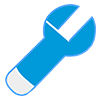
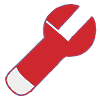
redisain home page

Changed region(s): [[0.03, 0.03, 0.99, 0.96]]

diff --git a/TeploBosh/css/style.css b/TeploBosh/css/style.css
@@ -3,17 +3,18 @@ body{font-size:16px;}
 img{vertical-align:middle;border:0;}
 header{}
 .logo-header{padding-top:1em;padding-bottom:1em;}
-.logo-header span{font-family:'Play',"Helvetica Neue",Helvetica,Arial,sans-serif;font-size:2.8em;color:#0099da;font-weight:900;text-shadow:2px 2px 4px rgba(0, 0, 0, 0.4), 0px 0px 6px rgba(0, 153, 218, 0.2);}
-.logo-img{position:relative;left:50%;width:100px;height:62px;background-image:url(../img/Logo_kond.png);background-repeat:no-repeat;-webkit-background-size:cover;background-size:cover;}
+.logo-header span{font-family:'Play',"Helvetica Neue",Helvetica,Arial,sans-serif;font-size:2.8em;color:#FFC01B;font-weight:900;text-shadow:2px 2px 4px rgba(0, 0, 0, 0.4), 0px 0px 6px rgba(0, 153, 218, 0.2);}
+.logo-header .redforbosh{color:#b22b31;}
+.logo-img{position:relative;left:44%;width:100px;height:62px;background-image:url(../img/Logo_kond.png);background-repeat:no-repeat;-webkit-background-size:cover;background-size:cover;}
 .logo-img img{position:absolute;top:15%;right:8%;}
 .menu-header,
 .menu-header ul{margin:0;}
 .menu-header ul li{float:left;list-style-type:none;padding-top:12px;}
 .menu-header ul li a{font-family:'Exo 2',"Helvetica Neue",Helvetica,Arial,sans-serif;padding:15px 25px;text-decoration:none;border-right:1px solid #EEE;border-bottom:1px solid #EEE;border-left:1px solid #EEE;color:black;-webkit-transition:background-color .25s ease;-moz-transition:background-color .25s ease;-ms-transition:background-color .25s ease;-o-transition:background-color .25s ease;transition:background-color 0.5s ease;}
-.menu-header ul .home-nav a{background-color:#eee;background-image:url(../img/home_menu.png);background-repeat:no-repeat;background-position:17px 13px;}
+.menu-header ul .home-nav a{background-color:rgba(255, 192, 27, 0.3);background-image:url(../img/home_menu.png);background-repeat:no-repeat;background-position:17px 13px;}
 .menu-header ul .home-nav a:hover{background-position:-34px 13px;}
 .menu-header ul li:last-child{border-right:0;}
-.menu-header ul li a:hover{background-color:#0099da;color:#ffffff;}
+.menu-header ul li a:hover{background-color:#ffc01b;color:#ffffff;}
 .menu-header ul .activ{background-color:#0099da;color:#ffffff;}
 .otherdata-header{margin-top:2.5em;margin-left:1.6em;font-size:1.15em;}
 .otherdata-header p{margin:6px 0px;font-family:'EB Garamond',"Helvetica Neue",Helvetica,Arial,sans-serif;}
@@ -25,7 +26,7 @@ header{}
 .otherdata-header .otherdata-number2,
 .otherdata-header .otherdata-email,
 .otherdata-header .basket-count span{font-weight:bold;}
-.otherdata-header .otherdata-time::before{content:"";display:inline-block;background-image:url(../img/clock.png);background-repeat:no-repeat;-webkit-background-size:cover;background-size:cover;width:20px;height:20px;position:absolute;top:10%;left:-12%;}
+.otherdata-header .otherdata-time::before{content:"";display:inline-block;background-image:url(../img/clock.png);background-repeat:no-repeat;-webkit-background-size:cover;background-size:cover;width:21px;height:20px;position:absolute;top:10%;left:-12%;}
 .otherdata-header .otherdata-number1::before{content:"";display:inline-block;background-image:url(../img/small_phone.png);background-repeat:no-repeat;-webkit-background-size:cover;background-size:cover;width:15px;height:25px;position:absolute;top:-2%;left:-10%;}
 .otherdata-header .otherdata-number2::before{content:"";display:inline-block;background-image:url(../img/star.png);background-repeat:no-repeat;-webkit-background-size:cover;background-size:cover;width:22px;height:22px;position:absolute;top:0%;left:-12%;}
 .otherdata-header .otherdata-email::before{content:"";display:inline-block;background-image:url(../img/email.png);background-repeat:no-repeat;-webkit-background-size:cover;background-size:cover;width:24px;height:18px;position:absolute;top:11%;left:-15%;}
@@ -55,6 +56,7 @@ to{transform:scale(1)}
 .main-tittle{font-family:'Exo 2',"Helvetica Neue",Helvetica,Arial,sans-serif;font-size:2em;font-weight:300;text-align:center;margin-bottom:1.2em;}
 .slider-wrap h4{font-family:'Play',"Helvetica Neue",Helvetica,Arial,sans-serif;font-size:1.25em;}
 .slider-wrap p{font-family:'EB Garamond',"Helvetica Neue",Helvetica,Arial,sans-serif;font-size:1.2em;}
+.slider-btn{margin-top:5%;}
 .wrap-upper-btn{position:relative;}
 .upper-btn{position:absolute;right:-5%;-webkit-transition:all .25s ease;-moz-transition:all .25s ease;-ms-transition:all .25s ease;-o-transition:all .25s ease;transition:all 0.5s ease;}
 .upper-btn a{display:block;width:40px;height:35px;background-image:url(../img/upper_btn.png);background-repeat:no-repeat;-webkit-background-size:cover;background-size:cover;background-color:transparent;border-radius:45%;}
@@ -73,7 +75,7 @@ to{transform:scale(1)}
 .our-service-boxs,
 .why-we-boxs{background-color:#f6f6f6;border:solid 1px #e5e5e5;display:block;text-align:center;overflow:hidden;padding:25px 10px 10px;margin-bottom:5px;}
 .our-service-icon,
-.why-we-icon{width:50px;height:50px;font-size:22px;line-height:2.2;background-color:transparent;color:#0099da;border:solid 1px #0099da;border-radius:5px;display:inline-block;margin:0 5px 5px 0;text-align:center;}
+.why-we-icon{width:50px;height:50px;font-size:22px;line-height:2.2;background-color:transparent;color:#0099da;border:solid 1px #ffc01b;border-radius:5px;display:inline-block;margin:0 5px 5px 0;text-align:center;}
 .our-service-icon,
 .why-we-icon{box-shadow:2px 2px 2px rgba(31, 30, 30, 0.2);position:relative;}
 .our-service-projecting .our-service-icon{background-image:url(../img/pencil_icon.png);background-repeat:no-repeat;-webkit-background-size:cover;background-size:cover;}
@@ -82,7 +84,7 @@ to{transform:scale(1)}
 .our-service-boxs h3{font-weight:300;font-family:'Play',"Helvetica Neue",Helvetica,Arial,sans-serif;text-shadow:2px 2px 2px rgba(31, 30, 30, 0.3);position:relative;}
 .our-service-article p{font-family:'EB Garamond',"Helvetica Neue",Helvetica,Arial,sans-serif;font-size:1.1em;}
 .our-service-article .our-service-tittle-artikl,
-.reviews .reviews-tittle{font-family:'Play',"Helvetica Neue",Helvetica,Arial,sans-serif;font-size:1.4em;font-weight:300;color:#0099da;text-align:center;}
+.reviews .reviews-tittle{font-family:'Play',"Helvetica Neue",Helvetica,Arial,sans-serif;font-size:1.4em;font-weight:300;color:#b22b31;text-align:center;}
 .work-withous .work-withous-bgwrapper{background-image:url(../img/bg_how_works.jpg);background-repeat:no-repeat;-webkit-background-size:cover;background-size:cover;background-attachment:fixed;}
 .work-withous .work-withous-list{color:#fff;text-shadow:2px 2px 2px rgba(0,0,0,0.6);}
 .work-withous .work-withous-h2::after{margin-left:20px;border-left:0;}
@@ -127,7 +129,7 @@ footer{background-color:#444;color:#eee;padding:0;margin-top:30px;border-top:sol
 .menu-footer ul li{float:left;width:33.333%;padding-bottom:3px;padding-top:3px;list-style-type:none;}
 .menu-footer ul li a{text-decoration:none;color:#eee;font-size:0.95em;-webkit-transition:all .25s ease;-moz-transition:all .25s ease;-ms-transition:all .25s ease;-o-transition:all .25s ease;transition:all .25s ease;}
 .menu-footer ul li a:hover{color:#0eb7ff;}
-.butn{padding:4px 35px;border-radius:3px;color:#fff;background-color:#0099da;background:-moz-linear-gradient(top, #0099da 5%, #0087c1 100%);background:-webkit-linear-gradient(top, #0099da 5%, #0087c1 100%);background:-o-linear-gradient(top, #0099da 5%, #0087c1 100%);background:-ms-linear-gradient(top, #0099da 5%, #0087c1 100%);background:linear-gradient(to bottom, #0099da 5%, #0087c1 100%);border:1px solid #0087c1;-webkit-transition:all .25s ease;-moz-transition:all .25s ease;-ms-transition:all .25s ease;-o-transition:all .25s ease;transition:all 0.5s ease;}
+.butn{padding:4px 35px;border-radius:3px;color:#fff;background-color:#ffc01b;background:-moz-linear-gradient(top, #e1b236 5%, #ffc01b 100%);background:-webkit-linear-gradient(top, #e1b236 5%, #ffc01b 100%);background:-o-linear-gradient(top, #e1b236 5%, #ffc01b 100%);background:-ms-linear-gradient(top, #e1b236 5%, #ffc01b 100%);background:linear-gradient(to bottom, #e1b236 5%, #ffc01b 100%);border:1px solid #ffc01b;-webkit-transition:all .25s ease;-moz-transition:all .25s ease;-ms-transition:all .25s ease;-o-transition:all .25s ease;transition:all 0.5s ease;}
 .butn:hover{-ms-transform:translateY(2px);-webkit-transform:translateY(2px);transform:translateY(2px);}
 .contaktus-footer p{font-family:'EB Garamond',"Helvetica Neue",Helvetica,Arial,sans-serif;font-size:1.1em;}
 .contaktus-footer p:last-child{color:#0eb7ff;}

diff --git a/TeploBosh/index.html b/TeploBosh/index.html
@@ -4,14 +4,8 @@
 <head>
 	<meta charset="UTF-8">
   <meta http-equiv="X-UA-Compatible" content="IE=edge">
-	<title>Vent-System</title>
+	<title>Teplo-Bosh</title>
 	<meta name="viewport" content="width=device-width, initial-scale=1">
-  <!-- HTML5 shim and Respond.js for IE8 support of HTML5 elements and media queries -->
-    <!-- WARNING: Respond.js doesn't work if you view the page via file:// -->
-    <!--[if lt IE 9]>
-      <script src="https://oss.maxcdn.com/html5shiv/3.7.3/html5shiv.min.js"></script>
-      <script src="https://oss.maxcdn.com/respond/1.4.2/respond.min.js"></script>
-    <![endif]--> 
   <link rel="shortcut icon" href="img/favicon_vent_system.png" type="image/x-icon" />
   <link href="https://fonts.googleapis.com/css?family=Exo+2" rel="stylesheet">
   <link href="https://fonts.googleapis.com/css?family=Play" rel="stylesheet">
@@ -29,7 +23,7 @@
       <div class="row">
         <div class="col-sm-4">
           <div class="logo-header">
-            <span>VENT-SYSTEM</span>
+            <span>TEPLO-</span><span class="redforbosh">BOSH</span>
             <div class="logo-img">
               <img class="ventrun" src="img/Logo_vent.png" alt="logo vent" width="45">
             </div>
@@ -95,41 +89,44 @@
     </div>
   </header>
 
-  <h1 class="main-tittle">Системы вентиляции и кондиционирования</h1>
+  <h1 class="main-tittle">Профессиональный монтаж тепловых насосов</h1>
   <div class="container slider-wrap">  <!-- slider-wrap -->
     <div class="row">
       <div class="col-md-12">
         <ul class="bxslider">
                 <li>
                   <div class="col-md-6">
-                    <h4>Системы Вентиляции и кондиционирования<br>
-                    Это практично и полезно</h4>
-                    <p>Lorem ipsum dolor sit amet, consectetur adipisicing elit. Reiciendis odio dolores corrupti aliquid a debitis porro, incidunt explicabo rerum. Possimus numquam optio perspiciatis pariatur rem laboriosam dolorem minus similique aut?</p>
+                    <h4>Bosch Compress 6000 LW</h4>
+                    <p><strong>Надійний вибір для опалення та гарячої води</strong><br/>
+                      Розсільно-водяні теплові насоси Compress 6000 LW - це оптимальне технічне рішення для енергоефективного опалення будинку та гарячого водопостачання. Теплові насоси працюють з високим середньорічним коефіцієнтом ефективності до 4.8. Є можливість керування двома опалювальними контурами та розширення керування до 4-х контурів за допомогою додаткових модулів.</p>
+                    <p><button class="butn slider-btn">Узнать подробнее</button></p>
                   </div> 
                   <div class="col-md-6">
-                    <img class="gallery-cell-img" src="img/vent_system_isgood.jpg" alt="Vent System" />
+                    <img class="gallery-cell-img" src="img/teplo_bosh_6000lw.jpg" alt="Bosch 6000 LW" />
                   </div>                
                 </li>
              
                 <li>         
                   <div class="col-md-6">
-                    <h4>Системы Вентиляции и кондиционирования<br>
-                    Это комфортно и уютно</h4>
-                    <p>Lorem ipsum dolor sit amet, consectetur adipisicing elit. Reiciendis odio dolores corrupti aliquid a debitis porro, incidunt explicabo rerum. Possimus numquam optio perspiciatis pariatur rem laboriosam dolorem minus similique aut?</p>
+                    <h4>Bosch Compress 6000 AW</h4>
+                    <p><strong>Переваги безкоштовної енергії та високої ефективності</strong><br/>
+                    Тепловий насос Compress 6000 AW використовує зовнішнє повітря як для опалення та гарячого водопостачання, так і для активного охолодження приміщення. Незалежно від того чи це нова будівля, чи проект модернізації, тепловий насос Compress 6000 AW є найкращим рішенням для максимальної економії та комфорту.</p>
+                    <p><button class="butn slider-btn">Узнать подробнее</button></p>
                   </div>
                   <div class="col-md-6">
-                    <img class="gallery-cell-img" src="img/vent_system_isgood2.jpg" alt="Vent System" />
+                    <img class="gallery-cell-img" src="img/teplo_bosh_6000aw.jpg" alt="Bosch 6000 AW" />
                   </div>
                 </li>
              
                 <li>
                   <div class="col-md-6">
-                      <h4>Системы Вентиляции и кондиционирования<br>
-                    Это стильно и современно</h4>
-                      <p>Lorem ipsum dolor sit amet, consectetur adipisicing elit. Reiciendis odio dolores corrupti aliquid a debitis porro, incidunt explicabo rerum. Possimus numquam optio perspiciatis pariatur rem laboriosam dolorem minus similique aut?</p>
+                      <h4>Bosch Compress 3000 AWS</h4>
+                      <p><strong>Надійне та економічне опалення</strong><br/>
+                      Спліт тепловий насос нового покоління повітря-вода Compress 3000 AWS розроблений спеціально для надійного опалення будинку в холодний період року, стабільного охолодження у теплий період року та цілорічного приготування гарячої води.</p>
+                      <p><button class="butn slider-btn">Узнать подробнее</button></p>
                   </div>
                   <div class="col-md-6">
-                    <img class="gallery-cell-img" src="img/vent_system_isgood3.jpg" alt="Vent System" />                  
+                    <img class="gallery-cell-img" src="img/teplo_bosh_3000aws.jpg" alt="Bosch 3000 AWS" />                  
                   </div>                               
                   </li>
 

diff --git a/TeploBosh/css/jquery.bxslider.css b/TeploBosh/css/jquery.bxslider.css
@@ -8,7 +8,7 @@ ul.bxslider{list-style:none;}
 .bx-wrapper .bx-controls-auto{position:absolute;bottom:-30px;width:100%;}
 .bx-wrapper .bx-loading{min-height:50px;background:url('../img/bx_loader.gif') center center no-repeat #ffffff;height:100%;width:100%;position:absolute;top:0;left:0;z-index:2000;}
 .bx-wrapper .bx-pager{text-align:center;font-size:.85em;font-family:Arial;font-weight:bold;color:#666;padding-top:20px;}
-.bx-wrapper .bx-pager.bx-default-pager a{background:#0099da;text-indent:-9999px;display:block;width:15px;height:15px;margin:0 5px;outline:0;-moz-border-radius:15px;-webkit-border-radius:15px;border-radius:15px;}
+.bx-wrapper .bx-pager.bx-default-pager a{background:#FFC01B;text-indent:-9999px;display:block;width:15px;height:15px;margin:0 5px;outline:0;-moz-border-radius:15px;-webkit-border-radius:15px;border-radius:15px;}
 .bx-wrapper .bx-pager.bx-default-pager a:hover,
 .bx-wrapper .bx-pager.bx-default-pager a.active,
 .bx-wrapper .bx-pager.bx-default-pager a:focus{background:#000;}

diff --git a/TeploBosh/mail.php b/TeploBosh/mail.php
@@ -1,0 +1,52 @@
+<?php
+
+$method = $_SERVER['REQUEST_METHOD'];
+
+//Script Foreach
+$c = true;
+if ( $method === 'POST' ) {
+
+	$project_name = trim($_POST["project_name"]);
+	$admin_email  = trim($_POST["admin_email"]);
+	$form_subject = trim($_POST["form_subject"]);
+
+	foreach ( $_POST as $key => $value ) {
+		if ( $value != "" && $key != "project_name" && $key != "admin_email" && $key != "form_subject" ) {
+			$message .= "
+			" . ( ($c = !$c) ? '<tr>':'<tr style="background-color: #f8f8f8;">' ) . "
+				<td style='padding: 10px; border: #e9e9e9 1px solid;'><b>$key</b></td>
+				<td style='padding: 10px; border: #e9e9e9 1px solid;'>$value</td>
+			</tr>
+			";
+		}
+	}
+} else if ( $method === 'GET' ) {
+
+	$project_name = trim($_GET["project_name"]);
+	$admin_email  = trim($_GET["admin_email"]);
+	$form_subject = trim($_GET["form_subject"]);
+
+	foreach ( $_GET as $key => $value ) {
+		if ( $value != "" && $key != "project_name" && $key != "admin_email" && $key != "form_subject" ) {
+			$message .= "
+			" . ( ($c = !$c) ? '<tr>':'<tr style="background-color: #f8f8f8;">' ) . "
+				<td style='padding: 10px; border: #e9e9e9 1px solid;'><b>$key</b></td>
+				<td style='padding: 10px; border: #e9e9e9 1px solid;'>$value</td>
+			</tr>
+			";
+		}
+	}
+}
+
+$message = "<table style='width: 100%;'>$message</table>";
+
+function adopt($text) {
+	return '=?UTF-8?B?'.Base64_encode($text).'?=';
+}
+
+$headers = "MIME-Version: 1.0" . PHP_EOL .
+"Content-Type: text/html; charset=utf-8" . PHP_EOL .
+'From: '.adopt($project_name).' <'.$admin_email.'>' . PHP_EOL .
+'Reply-To: '.$admin_email.'' . PHP_EOL;
+
+mail($admin_email, adopt($form_subject), $message, $headers );
